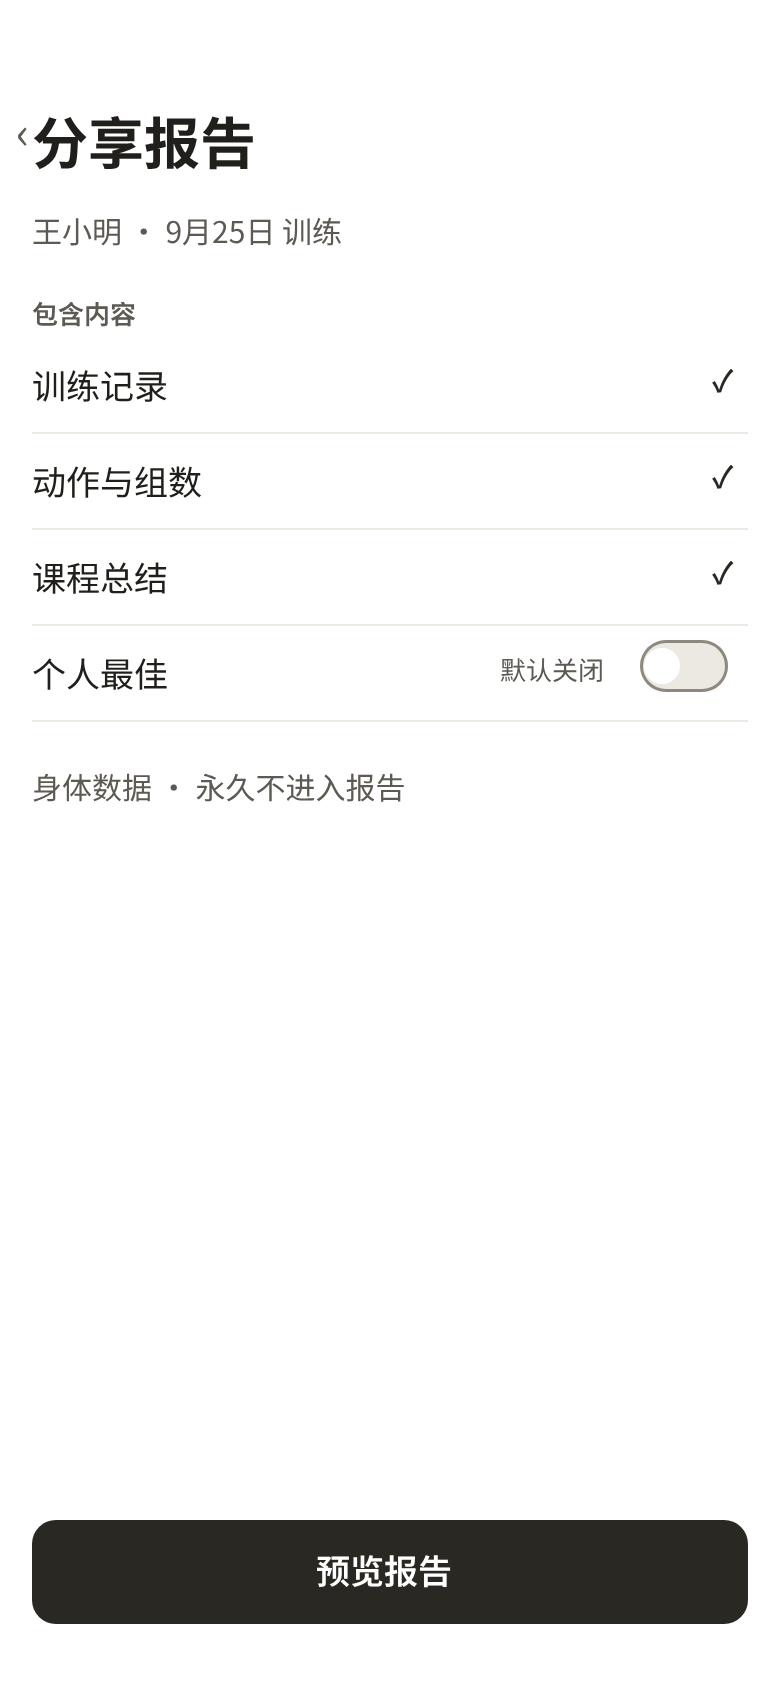
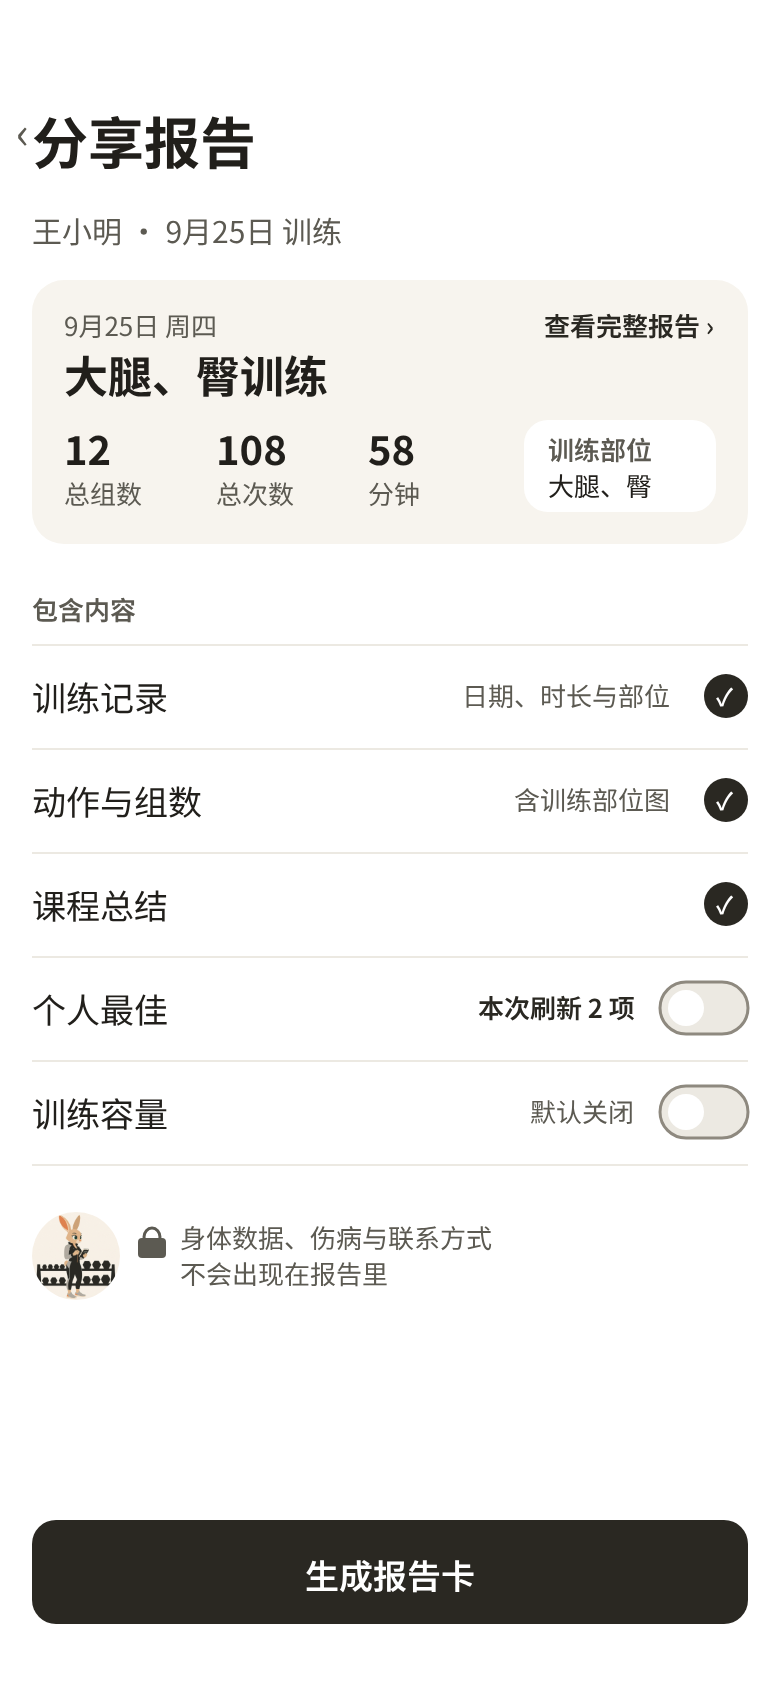
docs(design): share-report settings and preview updates for T069j (28, 29)
Owner-approved 2026-09-28: live preview card, tappable check circles with
haptics, personal-best hint (default off, FR-030), training-volume toggle
(default off, M1A-FR-036), friendlier privacy line with lock icon and the
mascot, primary button 生成报告卡; preview shows 分钟 as the third stat
unless volume is enabled. Penpot D7a/D7b updated (snapshots
before-T069j-share-settings → T069j share settings …); 28 and 29
re-exported.

diff --git a/design/design-system/README.md b/design/design-system/README.md
@@ -33,7 +33,7 @@
 Phase 6.5 人工审核（T063）发现 8 个核心界面需要结构调整，并提出 D1–D9 新增设计需求（`specs/002-m1-b-coach-operations/checklists/design-review-8-screens.md`）。初稿在 Penpot「M1-B G5 Design」Foundations 页右侧绘制，经产品负责人 2026-09-26 审稿修改后批准：
 
 - 快照：`before-D1-D9-drafts 2026-09-26` → `D1-D9-drafts 2026-09-26 (pending approval)` → `D1-D9-drafts r2 …` → `D1-D9 approved 2026-09-26 (D8 variant B)`。
-- 导出：`design/m1-b-hifi/screens/18`–`32`（2 倍图）；2026-09-27 补 `33`、`34` 并重新导出 `20`（Penpot 快照 `before-T069c-filter-sheet 2026-09-27` → `T069c library filter + options sheets 2026-09-27 …`，画板 D2c、D2d）；2026-09-28 按 T069i 审核重新导出 `32`（画板 D9 加入比较选择、相同动作明细、个人最佳日期与次数；快照 `before-T069i-review 2026-09-28` → `T069i review: …`）。**新画稿取代原画稿中的对应界面**：
+- 导出：`design/m1-b-hifi/screens/18`–`32`（2 倍图）；2026-09-27 补 `33`、`34` 并重新导出 `20`（Penpot 快照 `before-T069c-filter-sheet 2026-09-27` → `T069c library filter + options sheets 2026-09-27 …`，画板 D2c、D2d）；2026-09-28 按 T069j 重新导出 `28`、`29`（快照 `before-T069j-share-settings 2026-09-28` → `T069j share settings: …`）；2026-09-28 按 T069i 审核重新导出 `32`（画板 D9 加入比较选择、相同动作明细、个人最佳日期与次数；快照 `before-T069i-review 2026-09-28` → `T069i review: …`）。**新画稿取代原画稿中的对应界面**：
 
 | 新画稿 | 需求 | 取代 / 补充 |
 |---|---|---|
@@ -292,6 +292,8 @@ Phase 6.5 人工审核（T063）发现 8 个核心界面需要结构调整，并
 | 训练历史 · 比较选择模式（32，2026-09-28 产品负责人批准） | 「N 次训练」区段标签同一行右侧放链接式按钮「选择」；进入选择模式后按钮变「完成」，结果行左侧出现组状态圆圈同款勾选圈（未选 `border.control` 描边，已选 `action.primary` 实心 + 白色 ✓），行尾 `›` 隐藏，点行为勾选；最多两条，勾第三条时替换最早勾的一条。「课程比较」标签在选择模式下显示「课程比较（已选 N / 2）」。两栏标题为静态文字「M月d日 · 部位」（不再用下拉选择器）。默认预选最新一次与部位相同的上一次 |
 | 训练历史 · 个人最佳行（32，2026-09-28 产品负责人批准） | 三栏：左「动作名 `headline` / 类型 `caption` `text.secondary`」；中 `titleEmphasis` 最佳值（如「25 kg」）；右两行 `caption` `text.secondary` 右对齐：日期「9月17日」与该组「25 kg × 8 次」。最高重量取该重量下次数最多的一组，次数也相同取最近一次；时长、距离类只显示日期。区段标签「个人最佳」 |
 | 训练历史 · 相同动作明细（32，2026-09-28 产品负责人批准） | 「课程比较」总计下方，区段标签「相同动作」；两次训练都有的动作（按名称，与「动作差异」口径一致）各一行：动作名 `headline` + 右侧展开/折叠符号（§7.2 `▾`，展开时朝上），行间分割线。展开后左右两栏各列该动作的已完成组，`callout` 400 `text.secondary`，连续相同的组合并为一行「25kg × 12次 · 6 组」。第一个默认展开，其余折叠；换选比较的两次训练后恢复默认 |
+| 分享报告设置页（28，2026-09-28 产品负责人批准，T069j） | 自上而下：`‹` + `titleLarge`「分享报告」、副标题「学员 · M月d日 训练」；**实时缩略预览卡**（`surface.canvas` 底、`radius.lg`，内含日期、`title` 700 标题「部位训练」、三个数据、右侧白底小卡「训练部位」，右上链接「查看完整报告 ›」，随开关即时更新，点卡片等同预览）；区段「包含内容」三行「训练记录（日期、时长与部位）/ 动作与组数（含训练部位图）/ 课程总结」，右侧为组状态圆圈同款勾选圈（已选实心 + ✓，未选描边），可点击取消，切换时轻触感反馈；「个人最佳」行 + 开关（默认关闭，FR-030），本次刷新了个人最佳时左侧提示「本次刷新 N 项」（`caption` 600 `action.primary`），无刷新时开关不可用；「训练容量」行 + 开关（默认关闭，M1A-FR-036）；隐私说明：44×44 圆形吉祥物（装饰）+ 锁图标 +「身体数据、伤病与联系方式 / 不会出现在报告里」（`caption` `text.secondary`）；底部主按钮「生成报告卡」 |
+| 分享报告预览（29，2026-09-28 更新） | 数据行默认「总组数 / 总次数 / 分钟」；「训练容量」打开后第三项换为「总容量 kg」。副标题为学员称呼（时长移入数据行）。开启「个人最佳」时在动作列表后加「个人最佳」区（本次刷新的记录，同训练历史的行样式）。分享输出为一张长图 |
 
 **导航**：画稿中一级页面（今日 / 学员）通过顶部胶囊切换，17 屏里没有底部 Tab 栏；二级页面左上角是返回 `‹` 加 `titleLarge` 标题。
 
